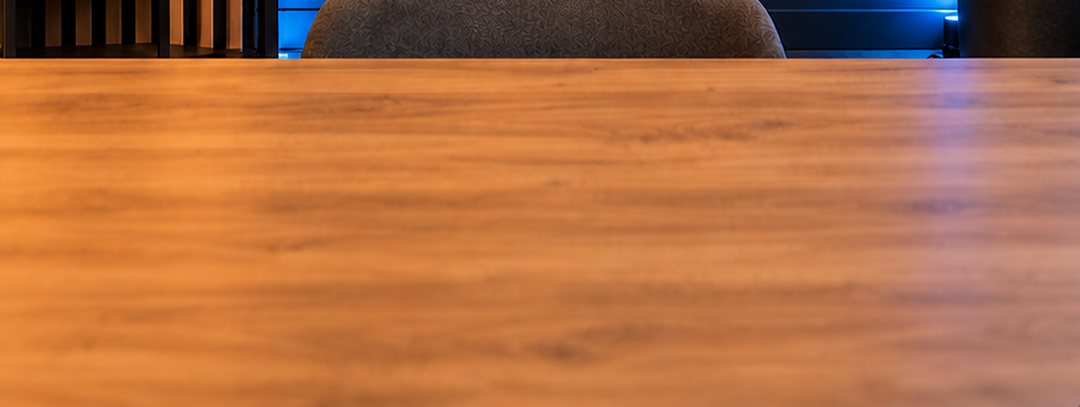
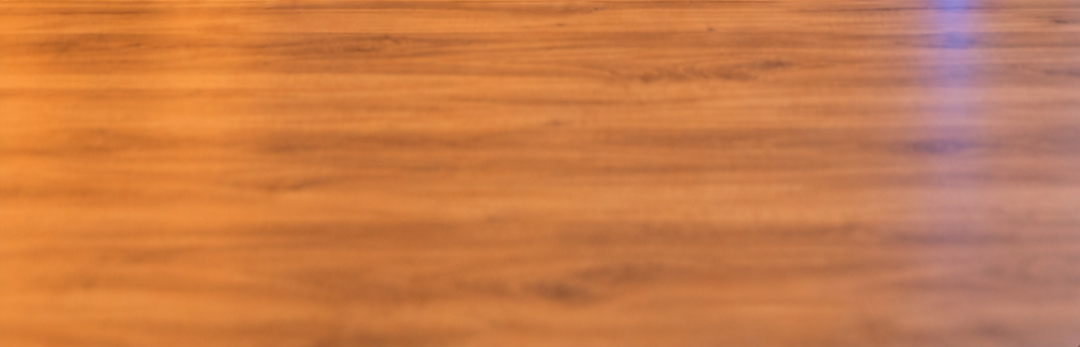
Studio: stoel terug, bureaulaag vanaf bovenrand bureau (y 1573)
Claude-Session: https://claude.ai/code/session_01QkSWZzWLTduRQtPp2zathG

diff --git a/instagram/studio/README.md b/instagram/studio/README.md
@@ -5,6 +5,6 @@ Nog te testen met een eerste opname.
 
 8/11: 6 AI-varianten (ai-varianten-8-11.png, te lage resolutie). Test met neonlogo: test-neonlogo.png. Voorkeur: rechtsonder (rek met voetbal, basketbal, trofee, bureau vooraan) of rechtsboven. Nodig: gekozen beeld opnieuw als 1 beeld in 9:16, hoge resolutie. Jari zit achter het bureau (bureaurand komt als laag over hem).
 
-**Definitief (8/11):** studio-sgm.png (1080x1920, ChatGPT-beeld studio-bron-chatgpt.png met padelracket i.p.v. 2e basketbal + neonlogo S/G + SPORTGROWTH MEDIA, node neon.js). Bureau als voorgrondlaag: studio-bureau-laag.png (y 1513-1920). Jari zit achter het bureau, hoofd ±y 1000-1300, logo erboven.
+**Definitief (8/11):** studio-sgm.png (1080x1920, ChatGPT-beeld studio-bron-chatgpt.png met padelracket i.p.v. 2e basketbal + neonlogo S/G + SPORTGROWTH MEDIA, node neon.js). Bureau als voorgrondlaag: studio-bureau-laag.png (y 1573-1920, exact de bovenrand van het bureau). Jari zit achter het bureau, hoofd ±y 1000-1300, logo erboven.
 
 **Test zonder groen doek (9/11):** studio-test-1.mp4. Werkwijze: key op lage kleurverzadiging + licht (muur weg, zwarte trui en huid blijven), maskers outer.png (persoon) en inner.png (gezicht altijd zichtbaar), Jari iets koeler/donkerder gekleurd. Opname DJI 1080x1920, crop 1080x1300, schaal 1188 breed, x=-54 y=151, bureau-laag op y 1513. Beperkingen: lichte rand rond het hoofd, maskers zijn per opname te zetten.
